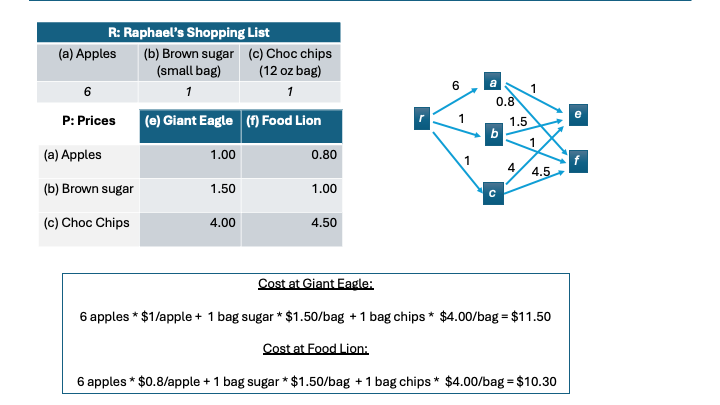
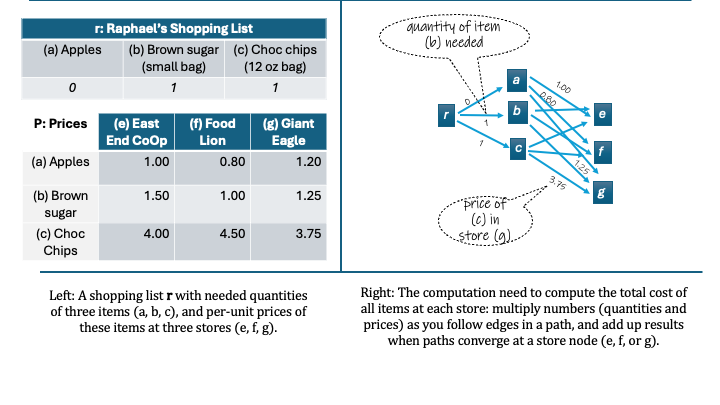
tweak

diff --git a/qm/01-aside-matrices.html b/qm/01-aside-matrices.html
@@ -9,88 +9,156 @@
 
 <body>
 <main class="container">
-<header><h1>Matrices and ML</h1></header>
+<header><h1>A gentle introduction to matrices</h1></header>
 <section>
 
-<i>to rewrite</i>
+  
+  <h2>What are matrices and what do they do?</h2>
 
-	  <h2>A gentle introduction to matrices</h2>
+  <h3>Multiplying rows and matrices</h3>
 
-	  <p>If you're not familiar with matrices, they are simply a
-	  convenient and widely-used way of organizing lots of
-	  additionals and multiplications.</p>
 
-	  <p>Here's a more down-to-earth example of when you might use
-	    matrices.  Raphael needs get three items, which I'll
-	    abbreviate (a, b, c), in different quantities (6, 1, 1).
-	    These items are available at two different stores for
-	    different prices.  Which store will be cheaper for Raphael
-	    to do his shopping?</p>
+  <p>If you're not familiar with matrices, they are simply a
+    convenient and widely-used way of organizing lots of
+    additionals and multiplications.</p>
 
-	  <center>
-	    <img src="double-slit/Slide2.png" height="auto" width="auto" alt="Double slit experiment">
-	  </center>
+  <p>Here's a more down-to-earth example of when you might use
+    matrices.  Raphael needs get three items, which I'll
+    abbreviate (a, b, c), in different quantities (0, 1, 1).
+    These items are available at three different stores for
+    different prices.  Which store will be cheaper for Raphael
+    to do his shopping?</p>
 
-	  <p>This is an easy question to solve, as shown above: if he
-	    does the math, Raphael will discover that he would pay
-	    $1.20 less at Food Lion (f) than Giant Eagle (e).  The
-	    computation he needs to do is just to multiple the
-	    quantity needed for each item on his list by the cost in a
-	    store, and then add these numbers up, for each store.</p>
+  <center>
+    <i>Figure 1.2: A concrete example of using matrices</i><br/>
+    <img src="double-slit/Slide2.png" height="auto" width="auto" alt="Example of how to operate on matrices">
+  </center>
 
-	  <p>A matrix is just a table of numbers.  We can write down
-	    all the numbers we need here in two matrices:
+  <p>This is an easy question to solve.  Clearly the costs will
+    be
+    <ul>
+      <li>\( 1 \times $1.50 + 1 \times $4.00 = $5.50 \) at the East End Co-op
+      <li>\( 1 \times $1.00 + 1 \times $4.50 = $5.50 \) at the Food Lion
+      <li>\( 1 \times $1.25 + 1 \times $3.75 = $5.00 \) at the Giant Eagle
+    </ul>
+    so the cheapest store is Giant Eagle.  The graph on the right hand
+    side of the figure shows illustrates the specific set of additions
+    and multiplications we need to do here, in the same format as we
+    used in Figure 1.1, when we were computing probabilities: we
+    multiply along edges of a path (here the edges are quantities, then
+    prices) and add when paths converge (here on a store, not a
+    detector). </p>
 
-	    $$ \textbf{r} = \left[ 6 ~ 1 ~ 1 \right], ~~~ 
-	    \textbf{P} = \left[ \begin{array}{rr}1.00 & 0.80 \\ 1.50 & 1.00 \\ 4.00 & 4.50 \end{array} \right]
-	    $$
-	    If a matrix has just one row, like the one I labeled <b>r</b> above,
-	    then it's called "row vector", and if it has just one column,
-	    it's called called a "column vector".  I will usually use boldfaced lower-case 
-	    letters for matrices that are vectors and boldfaced upper-case letters otherwise.</p>
+  <p>Notice this is same kind of computation we did in Figure 1.1.
+    <strong>Matrices are just a compact way of describing this
+    particular sequence of multiplications and
+    additions</strong>---much more compact than the graphs I used.
+  </p>
 
-	  <p>
-	    Let's give these numbers names so we can follow the operations we need to do easily.
-	    I will use \( r_a \) for the number of apples Raphael needs, use
-	    use \( p_{a, e} \) for the price of apples at Giant Eagle'sand so on.
-	    So then
-	    $$ \textbf{r} = \left[ 6 ~ 1 ~ 1 \right] = \left[ r_a ~ r_b ~ r_c \right]
-	    $$
-	    and
-	    $$
-	    \textbf{P} = \left[ \begin{array}{rr} 1.00 & 0.80 \\ 1.50 & 1.00 \\ 4.00 & 4.50 \end{array} \right]
-	      = \left[ \begin{array}{rr} p_{a,e} & p_{a,f} \\ p_{b,e} & p_{b,f} \\ p_{c,e} & c_{c,f} \end{array} \right]
-	    $$
-	    And the computation we want to do is to find the total price for Raphael in each store, which if we wrote out
-	    as a row vector would be
-	    $$ \left[ (r_a  p_{a,e} + r_b  p_{b,e} + r_c  p_{c,e}) ~~~~ 
-	              (r_a  p_{a,f} + r_b  p_{b,f} + r_c  p_{c,f}) \right]
-	    $$
-	    </p>
+  <p>
+  With matrix algebra we start out by writing all the relevant numbers
+  in tables, which are called matrices.  In this case we need two
+  matrices:
 
-	    <p><i>general matrix multiplication rule...<i>
+  $$ \textbf{r} = \left[ 0, ~ 1, ~ 1 \right], ~~~ 
+  \textbf{P} = \left[ \begin{array}{rr}1.00 & 0.80 \\ 1.50 & 1.00 \\ 4.00 & 4.50 \end{array} \right]
+  $$
+    
+  If a matrix has just one row, like the one I labeled <b>r</b>
+  above, then it's called "row vector", and if it has just one
+  column, it's called called a "column vector".  We usually use
+  boldfaced lower-case letters for matrices that are vectors and
+  boldfaced upper-case letters otherwise.</p>
 
-	    <p>There are other ways that matrices can be combined.
-	      One is just to stick them together side-by-side, or
-	      "stack" them: so if Raphael was going to shop with Shaun
-	      and Shaun's shopping list was the same except with no
-	      apples I might combine those two lists into a
-	      matrix <b>Q</b> like this $$ \textbf{Q} = \left[
-	      \begin{array}{rrr}6 & 1 & 1 \\ 0 & 1 & 1 \end{array}
-	      \right] $$ (Notice I need to add zeros to Shaun's list
+  <p>To explain the general rule we'll use when multiplying a row
+    vector by a matrix, I'll give these numbers names so we can follow
+    the operations we need to do easily.  I will use \( r_a \) for the
+    number of apples Raphael needs, use use \( p_{a, e} \) for the
+    price of apples at Giant Eagle'sand so on.  So then
+
+    $$ \textbf{r} = \left[ 0, ~ 1, ~ 1  \right] = \left[ r_a, ~ r_b, ~ r_c, \right] ~~~~
+    \textbf{P} =
+    \left[ 
+    \begin{array}{rrr} 1.00 & 0.80 & 1.20 \\ 1.50 & 1.00 & 1.25 \\ 4.00 & 4.50 & 3.75 
+    \end{array} \right] = 
+    \left[ \begin{array}{rrr} 
+    p_{a,e} & p_{a,f} & p_{a,g} \\ p_{b,e} & p_{b,f} & p_{b,g} \\ p_{c,e} & p_{c,f} & p_{c,g}
+    \end{array} \right] 
+    $$
+
+    To <i>matrix multiply</i> \( \textbf{r} \) by \( \textbf{P} \), we align
+    the numbers in \( \textbf{r} \) with the <strong>first
+    column</strong> of \( \textbf{P} \), apples to apples, brown sugar to brown sugar, and so on.
+    We multiply each of these pairs, and then add up the products to get a total
+
+    $$ t_e = r_a  p_{a,e} + r_b  p_{b,e} + r_c  p_{c,e}
+    $$ 
+    Then we repeat this to get the corresponding sum for all the
+    columns of \( \textbf{P} \), to get \( t_f \) and \( t_g \).  
+    The
+    resulting <i>matrix product</i> of total costs \( \textbf{T} =
+    \textbf{r} \textbf{P} \) is finally
+    $$ \textbf{T} = \left[ t_e, ~ t_f, ~ t_g \right] 
+    = \left[ r_a  p_{a,e} + r_b  p_{b,e} + r_c  p_{c,e}, ~
+    r_a  p_{a,f} + r_b  p_{b,f} + r_c  p_{c,f}, ~    
+    r_a  p_{a,g} + r_b  p_{b,g} + r_c  p_{c,g}
+    \right]
+    $$
+  </p>
+
+  <p>Here is another way of describing this computation. 
+    Let's write the columns of \( \textbf{P} \) as follows:
+    <ul><li>Column for store \( e \) is written \( \textbf{P}[:,e] \)
+	<li>Column for store \( f \) is written \( \textbf{P}[:,f] \)
+	<li>Column for store \( g \) is written \( \textbf{P}[:,g] \) 
+    </ul>
+    The total \( t_e \) computed is called the <i>inner product</i> of row \(
+    \textbf{r} \) and \( P[:,e] \), the first column of \( \textbf{P}
+    \), and the inner product is usually written with a dot, e.g.,
+    \( t_e = \textbf{r} \cdot \textbf{P}[:,e] 
+    \)
+
+    so we could also write \( \textbf{T} = \textbf{r} \textbf{P} \) as
+    a <strong>row vector of inner products</strong>, one for each
+    column in the matrix \( \textbf{P} \):
+
+    $$ \textbf{T} = \left[ 
+       \textbf{r} \cdot \textbf{P}[:,e], ~ 
+       \textbf{r} \cdot \textbf{P}[:,f], ~ 
+       \textbf{r} \cdot \textbf{P}[:,g]
+       \right]
+    $$
+  </p>
+
+  <i>Generality of a formula like r P - could model different numbers
+  of slits and detectors without changing the equations, just the
+  "shape" of the matrices.</i>
+
+  <h3>Multiplying two matrices</h3>
+
+  <i>general matrix multiplication rule...</i>
+
+  <i>There are other ways that matrices can be combined.
+    One is just to stick them together side-by-side, or
+    "stack" them: so if Raphael was going to shop with Shaun
+    and Shaun's shopping list was the same except with no
+    apples I might combine those two lists into a
+    matrix <b>Q</b> like this $$ \textbf{Q} = \left[
+    \begin{array}{rrr}6 & 1 & 1 \\ 0 & 1 & 1 \end{array}
+    \right] $$ (Notice I need to add zeros to Shaun's list
 	      to make it the same length as Raphael's, so I can
-	      combine them.)
+    combine them.)
+    
+    On the
+    upper right of the figure there's a graph diagram that
+    illustrates exactly what computation he needs to do: he
+    needs to take each
+  </i>
 
-	    On the
-	    upper right of the figure there's a graph diagram that
-	    illustrates exactly what computation he needs to do: he
-	    needs to take each
-	  </p>
+  <h2>Matrices and Machine Learning</h2>
 
-	  <i>matrices as paths and organizing add/multiply operations - neural nets as matrices - 
-	    softmax and other "non-linearities"
-	  </i>
-
+  <i>neural nets as matrices - softmax and other "non-linearities"
+  </i>
 
 </section></main></body></html>
 
